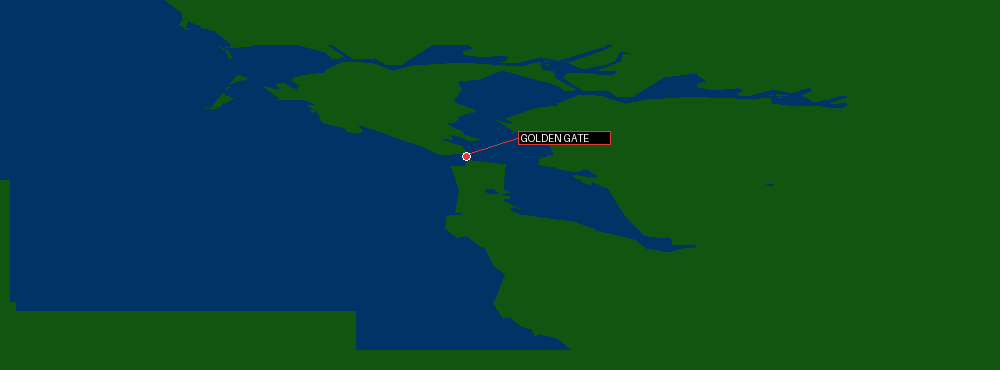
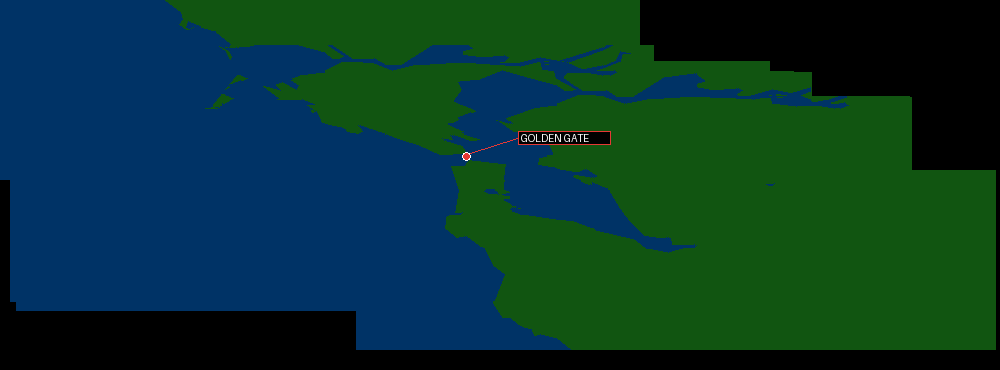
Mark uncaptured space in M-map mosaic

Changed region(s): [[0.0, 0.0, 1.0, 1.0]]

diff --git a/scripts/render_m_map_panned_vector_mosaic.py b/scripts/render_m_map_panned_vector_mosaic.py
@@ -36,6 +36,7 @@ RUNS = (
     ("run004", ROOT / "build/run004_m_map_projected_polygons/projected_polygons.json", 356, 170, 22, 2, 22),
 )
 WIDTH, HEIGHT = 1000, 370
+VIEWPORT_WIDTH, VIEWPORT_HEIGHT = 640, 180
 ANCHORS = (("GOLDEN GATE", 466, 156.5, "#e53935"),)
 GOLDEN_GATE_LINES = (((466, 153), (466, 157)), ((466, 160), (466, 156)))
 
@@ -58,27 +59,37 @@ def main() -> None:
         '<?xml version="1.0" encoding="UTF-8"?>',
         f'<svg xmlns="http://www.w3.org/2000/svg" width="{WIDTH}" height="{HEIGHT}" viewBox="0 0 {WIDTH} {HEIGHT}" shape-rendering="crispEdges">',
         '<title>M-map source-vector panned mosaic</title>',
-        '<desc>Two C4B390-before-C2FF48 polygon captures joined by the measured run035-to-run003 coastline translation.</desc>',
-        f'<rect width="{WIDTH}" height="{HEIGHT}" fill="{LAND}"/>', '<g fill="#003366" stroke="none">',
+        '<desc>Direct C4B390-before-C2FF48 polygon captures joined by measured coastline translations. Black is uncaptured space.</desc>',
+        f'<rect width="{WIDTH}" height="{HEIGHT}" fill="#000"/>',
     ]
-    image = Image.new("RGB", (WIDTH, HEIGHT), LAND)
+    image = Image.new("RGB", (WIDTH, HEIGHT), "black")
     draw = ImageDraw.Draw(image)
     report_runs = []
+    coverage_svg = []
+    polygon_svg = []
+    raster_polygons = []
     for name, path, tx, ty, expected, start, count in RUNS:
         captured = json.loads(path.read_text(encoding="utf-8"))["polygons"]
         polygons = canonical_pass(captured) if count is None else captured[start:start + count]
         if len(polygons) != expected:
             raise RuntimeError(f"{name}: expected {expected} polygons, got {len(polygons)}")
+        coverage_svg.append(f'<rect x="{tx}" y="{ty}" width="{VIEWPORT_WIDTH}" height="{VIEWPORT_HEIGHT}" fill="{LAND}"><title>{name}: observed map viewport</title></rect>')
         for polygon in polygons:
             pairs = polygon["projected_pairs"]
             if len(pairs) < 3:
                 continue
             points = [(x * 2 + tx, y + ty) for x, y in pairs]
-            svg.append('<polygon points="' + " ".join(f"{x},{y}" for x, y in points) + f'"><title>{name}: {polygon["context_a5"]}, submission {polygon["submission"]}</title></polygon>')
-            draw.polygon(points, fill=SEA)
+            polygon_svg.append('<polygon points="' + " ".join(f"{x},{y}" for x, y in points) + f'"><title>{name}: {polygon["context_a5"]}, submission {polygon["submission"]}</title></polygon>')
+            raster_polygons.append(points)
         report_runs.append({"name": name, "polygon_capture": str(path), "translation": [tx, ty], "canonical_submissions": len(polygons),
                             "start_submission": start, "bounded_submissions": count})
-    svg.append('</g><g shape-rendering="geometricPrecision" font-family="monospace">')
+    svg.extend(coverage_svg)
+    svg.extend(['<g fill="#003366" stroke="none">', *polygon_svg, '</g>'])
+    for _, _, tx, ty, _, _, _ in RUNS:
+        draw.rectangle((tx, ty, tx + VIEWPORT_WIDTH - 1, ty + VIEWPORT_HEIGHT - 1), fill=LAND)
+    for points in raster_polygons:
+        draw.polygon(points, fill=SEA)
+    svg.append('<g shape-rendering="geometricPrecision" font-family="monospace">')
     for (x1, y1), (x2, y2) in GOLDEN_GATE_LINES:
         svg.append(f'<line x1="{x1}" y1="{y1}" x2="{x2}" y2="{y2}" stroke="#880000" stroke-width="2"/>')
         draw.line(((x1, y1), (x2, y2)), fill="#880000", width=2)
@@ -99,7 +110,7 @@ def main() -> None:
         "runs": report_runs,
         "landmarks": [{"name": name, "anchor": [x, y]} for name, x, y, _ in ANCHORS],
         "golden_gate_segments": [[list(start), list(end)] for start, end in GOLDEN_GATE_LINES],
-        "qualification": "The normalized mosaic places run042 at (0,0), run002 at +16,+131, run037 at +14,+45, run035 at +130,+61, run038 at +154,+71, run041 at +172,+72, run001 at +194,+121, run024 at +270,+96, run003 at +272,+97, and run004 at +356,+170 host pixels. Run004 is an explicitly bounded 22-submission pass beginning at collector submission 2 from an independent Base-3 free-flight checkpoint; its run004/run035 join is 99.3979% agreement across 28,566 water pixels. Run001 is a 36-submission pass from an independent Base-1 free-flight checkpoint; its run001/run035 join is 97.9020% agreement across 67,968 water pixels. Run002 is a 43-submission pass from an independent Base-4 free-flight checkpoint; its run002/run035 join is 97.9792% agreement across 56,808 water pixels. Run024 is a 42-submission pass from the user-verified San Francisco cockpit checkpoint; its run024/run035 join is 98.1594% agreement across 71,500 water pixels. Run038 uses an explicit stable 58-submission pass beginning at collector submission 8; its run038/run035 join is 98.2684% agreement across 103,488 water pixels. Run041 uses an explicit moving 50-submission bounded pass beginning at collector submission 10. Its run041/run035 join is 98.2697% agreement across 99,866 water pixels and composes with run035/run042. The run037/run035 join is 97.9997% agreement across 84,888 water pixels; run035/run042 is 98.4816%, and run003 follows the established +142,+36 relation from run035. Its red Golden Gate vectors are C3559A/C355D2 lines transferred through the red-pixel-validated relation. The reusable C3B720/C3B6B0 component is deliberately excluded as an unproven landmark. This is a joined observed coverage view, not absolute global coordinates, a complete world map, or a full terrain-model extraction. Screen-relative grid and state-dependent object symbols are excluded.",
+        "qualification": "Each green rectangle is one directly observed 640×180 M-map viewport; blue polygons are direct renderer vectors inside that observed coverage, while black is uncaptured space. The normalized mosaic places run042 at (0,0), run002 at +16,+131, later run002 at +10,+122, run037 at +14,+45, run035 at +130,+61, run038 at +154,+71, run041 at +172,+72, run001 at +194,+121, run024 at +270,+96, run003 at +272,+97, and run004 at +356,+170 host pixels. Its red Golden Gate vectors are C3559A/C355D2 lines transferred through the red-pixel-validated relation. Reusable components are deliberately excluded as unproven landmarks. This is a joined observed coverage view, not absolute global coordinates, a complete world map, or a full terrain-model extraction. Screen-relative grid and state-dependent object symbols are excluded.",
     }
     report_path.write_text(json.dumps(report, indent=2) + "\n", encoding="utf-8")
     print(json.dumps({"runs": len(report_runs), "svg": str(svg_path), "png": str(png_path)}))

diff --git a/analysis/data/m_map_panned_projected_polygon_mosaic.md b/analysis/data/m_map_panned_projected_polygon_mosaic.md
@@ -10,6 +10,8 @@ This wider view joins the run042 40-polygon, run002 43-polygon, later run002
 bounded run004 22-polygon M-map passes. Every blue shape is a direct `$C4B390`
 projected polygon captured immediately before `$C2FF48`; the green base is the
 game’s observed land palette. In the normalized mosaic run042 starts at
+Each visible green rectangle is an observed 640×180 viewport; black space is
+uncaptured map area, not sea or land. In the normalized mosaic run042 starts at
 `(0,0)`, run002 is translated by `(16,131)`, later run002 by `(10,122)`,
 run037 by `(14,45)`, run035 by
 `(130,61)`, run038 by `(154,71)`, run041 by `(172,72)`, run001 by `(194,121)`,
@@ -47,6 +49,4 @@ The reusable `$C3B720/$C3B6B0` component is also excluded: one observed map
 occurrence does not prove it is a unique mountain or landmark.
 
 This is wider observed source coverage, **not** an absolute coordinate system,
-a complete world map, or a reconstructed global terrain model. Green space
-outside either captured map rectangle represents absent capture coverage, not
-asserted land.
+a complete world map, or a reconstructed global terrain model.
